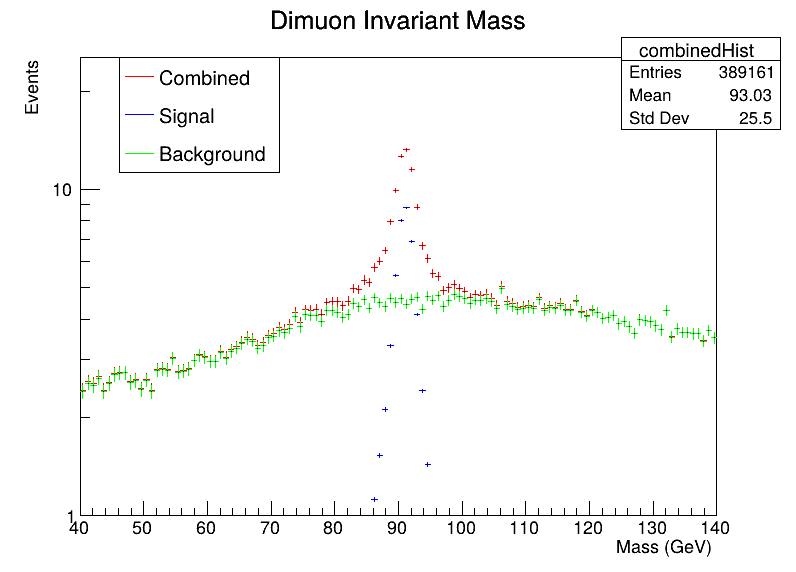
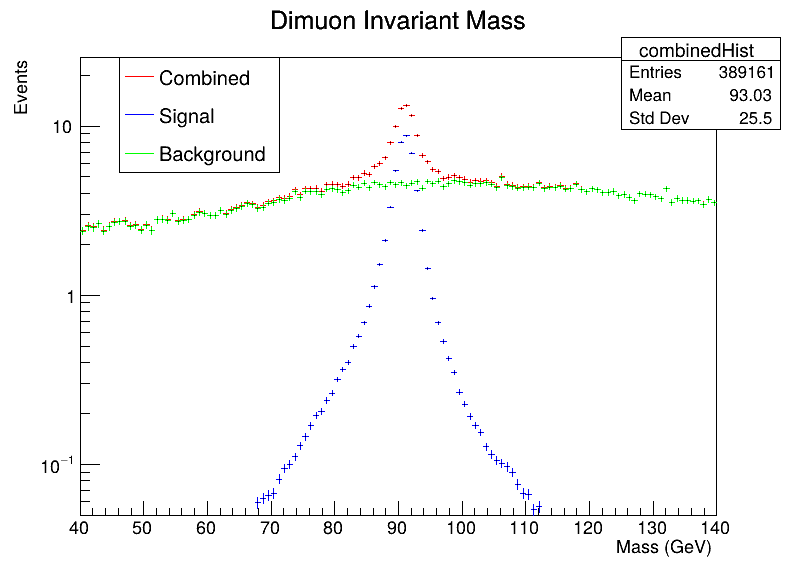
plot range change dimuon mass

diff --git a/EventGeneration/FewVariables/analysis.cpp b/EventGeneration/FewVariables/analysis.cpp
@@ -158,7 +158,7 @@ int main() {
     canvas->SetLogy();
     combinedHist->Add(sig_Hist);
     combinedHist->Add(bg_Hist);
-    combinedHist->SetMinimum(1);
+    combinedHist->SetMinimum(0.05);
     combinedHist->SetLineColor(kRed);
     sig_Hist->SetLineColor(kBlue);
     bg_Hist->SetLineColor(kGreen);
